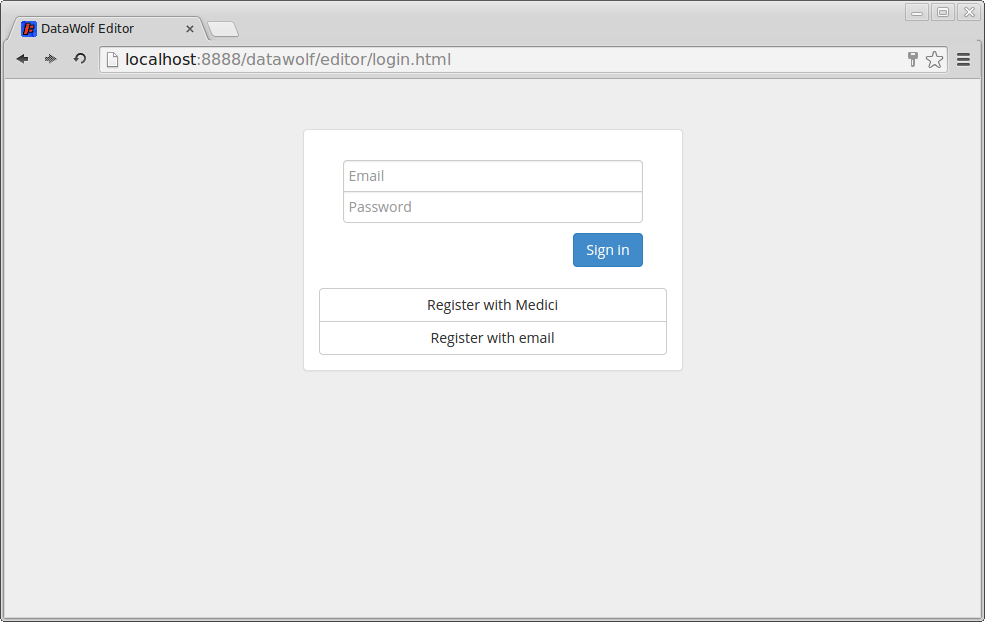
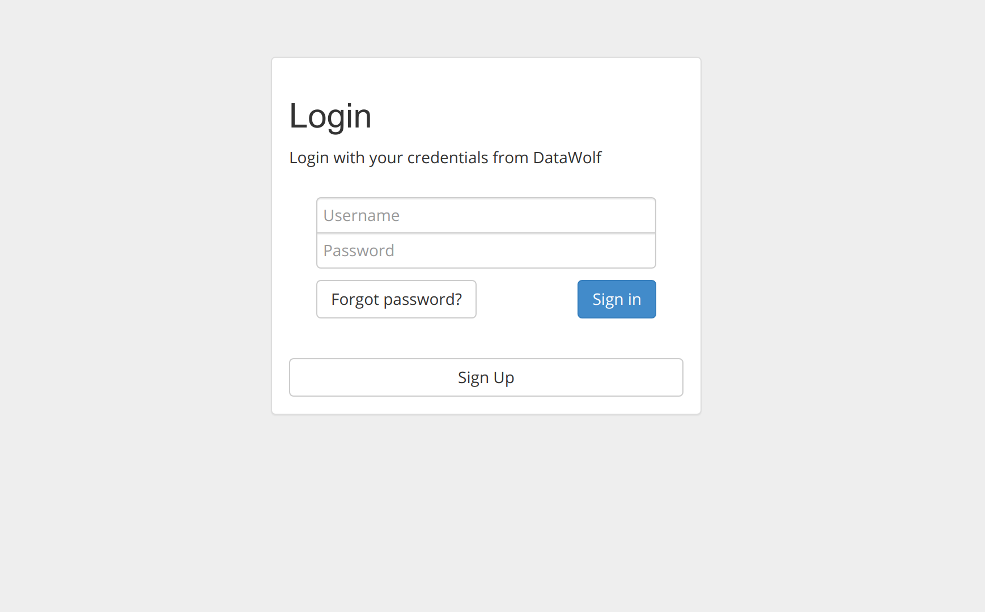
WOLF-236 updated documentation for 4.4 release

Changed region(s): [[0.0, 0.0, 1.0, 1.0], [0.3046, 0.2484, 0.6701, 0.652]]

diff --git a/datawolf-doc/doc/manual/index.html b/datawolf-doc/doc/manual/index.html
@@ -122,9 +122,12 @@ DELETE | persons/{person-id} | id of user to delete
 request method | URL | Description
 -------------- | --- | -----------
 GET | login | Login a user by email and password
-POST | login | Create a user eaccount with specified email and password
-PUT | login/{person-id}/active | Enable/Disable user accounts 
+GET | login/key | the key/token associated with a user account
+POST | login | Create a user account with specified email and password
+POST | login/updatePassword | Update password
+PUT | login/{person-id}/active | Enable/Disable user accounts
 DELETE | login | Delete specified user account
+DELETE | login/token | Delete user token
 
 **Workflows**
 
@@ -144,7 +147,7 @@ DELETE | workflows/{workflow-id} | delete a workflow by id
 
 request method | URL | Description
 -------------- | --- | -----------
-GET | datasets | get all datasets
+GET | datasets | get all user datasets
 GET | datasets/{dataset-id} | get dataset by id
 GET | datasets/{dataset-id}/zip | get a zip file containing dataset by id
 GET | datasets/{dataset-id}/{filedescriptor-id} | get a file descriptor by dataset id and file descriptor id
@@ -179,6 +182,7 @@ GET | executions/{execution-id} | get execution by id
 GET | executions/{execution-id}/logfiles | get all logfiles associated with an execution
 GET | executions/{execution-id}/logfiles/{step-id} | get logfile associated with a single step of the execution
 GET | executions/{execution-id}/state | get the state of all steps in an execution
+GET | executions/{workflow-id}/template | get submission template for a workflow
 POST | executions | create an execution for a submission
 DELETE | executions/{execution-id} | delete execution by id
 PUT | executions/{execution-id}/start | start an execution
@@ -221,22 +225,25 @@ The latest version of Data Wolf can be downloaded from:
 
 https://opensource.ncsa.illinois.edu/projects/artifacts.php?key=WOLF
 
-By default, the latest release is selected in the page (currently 4.3.0). To get early access to development releases, check the box **Show also prereleases.**
+By default, the latest release is selected in the page (currently 4.4.0). To get early access to development releases, check the box **Show also prereleases.**
 
 * Click on **Version** 
-    * Select **4.3.0**
-    * Under **Files** select **datawolf-webapp-all-4.3.0-bin.zip**
+    * Select **4.4.0**
+    * Under **Files** select **datawolf-webapp-all-4.4.0-bin.zip**
 * Click **I Accept** to accept the License.
 
 This will give you the latest stable build that includes both the Data Wolf Server and the Web Editor. You can also find links to the javacode there as well as the manual. The link to the source code can be found at the end of this document.
 
 ### Installation and Setup
 
-To install the files necessary for the Server and Editor, find where you downloaded Data Wolf and unzip it somewhere. This will create a folder called **datawolf-webapp-all-4.3.0**. In the next few sections, we'll discuss some of the important files that come with the installation you just unzipped so you can tailor your setup to meet your needs. If you wish to skip this, you can go directly to the section **Running Data Wolf Server and Editor**.
+To install the files necessary for the Server and Editor, find where you downloaded Data Wolf and unzip it somewhere. This will create a folder called **datawolf-webapp-all-4.4.0**. In the next few sections, we'll discuss some of the important files that come with the installation you just unzipped so you can tailor your setup to meet your needs. If you wish to skip this, you can go directly to the section **Running Data Wolf Server and Editor**.
 
 #### Data Wolf properties
 
-Open the folder that was created by unzipping the installation zip file and go into the **Conf** folder. You should see a file called **datawolf.properties**. For the purpose of running Data Wolf server and editor, you won't need to make any changes to this file or understand its contents. However, for those who are interested, the rest of this section will dissect the file for informational purposes to highlight the important parts of the file you might want to modify to configure available executors and where information is stored. If you open the **datawolf.properties** in a text editor, you should see the snippet below:
+Open the folder that was created by unzipping the installation zip file and go into the **Conf** folder. You should see a file called **datawolf.properties**.
+For the purpose of running Data Wolf server and editor, you won't need to make any changes to this file or understand its contents. However, for those who are
+interested, the rest of this section will dissect the file for informational purposes to highlight the important parts of the file you might want to modify to
+configure available executors and where information is stored. If you open the **datawolf.properties** in a text editor, you should see the snippet below:
 
 ```
 #Clowder settings
@@ -250,7 +257,7 @@ disk.folder=data/files
 
 * **Clowder settings**
     * **clowder.server** Uncomment this to specify the Clowder server URL. 
-  * * **clowder.key** Uncomment this to specify the key for the Clowder server. 
+    * **clowder.key** Uncomment this to specify the key for the Clowder server.
 * **Local Disk settings** By default, Data Wolf is configured to store data on local disk. 
     * **disk.levels** - indicates the number of folder levels to use, this prevents too many files in a single folder
     * **disk.folder** - indicates the location on disk to store the files. 
@@ -263,6 +270,7 @@ engine.extraLocalExecutor = 1
 engine.localExecutorThreads = 8
 engine.storeLogs = false
 engine.timeout = 3600
+engine.pageSize = 50
 
 # Executors
 java.executor=edu.illinois.ncsa.datawolf.executor.java.JavaExecutor
@@ -388,12 +396,13 @@ ldap.groupDN=ou=groups
 ldap.objectClass=inetorgperson
 ldap.trustAllCertificates=false
 ```
-   
-The next section will discuss the launch script for Data Wolf.
+
+In the same folder at **datawolf.properties** is a **custom.properties** file that can also be used to override parameters set in **datawolf.properties**. The
+next section will discuss the launch script for Data Wolf.
 
 #### Launch Scripts
 
-If you go back to the folder **Data Wolf-webapp-all-4.3.0** you will see a sub-folder called **bin**, open this. Inside you will find two scripts, **datawolf-service** and **datawolf-service.bat**. The latter is intended for running Data Wolf on a Windows machine and the former is for running on Mac & Linux. As with the previous section, knowledge of this file is not required unless you are interested in configuring the Data Wolf Server and Editor beyond the default settings. We will show snippets of the file **datawolf-service** and discuss what each section is configuring.
+If you go back to the folder **Data Wolf-webapp-all-4.4.0** you will see a sub-folder called **bin**, open this. Inside you will find two scripts, **datawolf-service** and **datawolf-service.bat**. The latter is intended for running Data Wolf on a Windows machine and the former is for running on Mac & Linux. As with the previous section, knowledge of this file is not required unless you are interested in configuring the Data Wolf Server and Editor beyond the default settings. We will show snippets of the file **datawolf-service** and discuss what each section is configuring.
 
 ```
 # port for the jetty server
@@ -551,7 +560,8 @@ After launching the datawolf-service script, you will have both a Data Wolf Serv
 
 ![Web Editor login page.](images/login-page.png)
 
-If you don't have an account on Data Wolf, fill in the registration form and click **Register with email** link to create an account. Unless you are an administrator, you will need to contact the server administrator to enable your new account. 
+If you don't have an account on Data Wolf, click the **Sign Up** button and fill in the registration form.  Once that is finished, click the **Register** button to
+create an account. Unless you are an administrator, you will need to contact the server administrator to enable your new account.
 
 After you register an account and it is activated, the next time you see the login page just enter the email address you registered and click the **Sign-in** button. This should bring you to a page that looks similar to the one below:
 

diff --git a/CHANGELOG.md b/CHANGELOG.md
@@ -15,6 +15,8 @@ and this project adheres to [Semantic Versioning](http://semver.org/).
 ### Changed
 - Datasets endpoint only returns users data and allows user to modify
   [WOLF-286](https://opensource.ncsa.illinois.edu/jira/browse/WOLF-286)
+- Updated documentation for 4.4 release changes
+  [WOLF-236](https://opensource.ncsa.illinois.edu/jira/browse/WOLF-236)
 
 ## [4.3.0] - 2019-01-31
 
